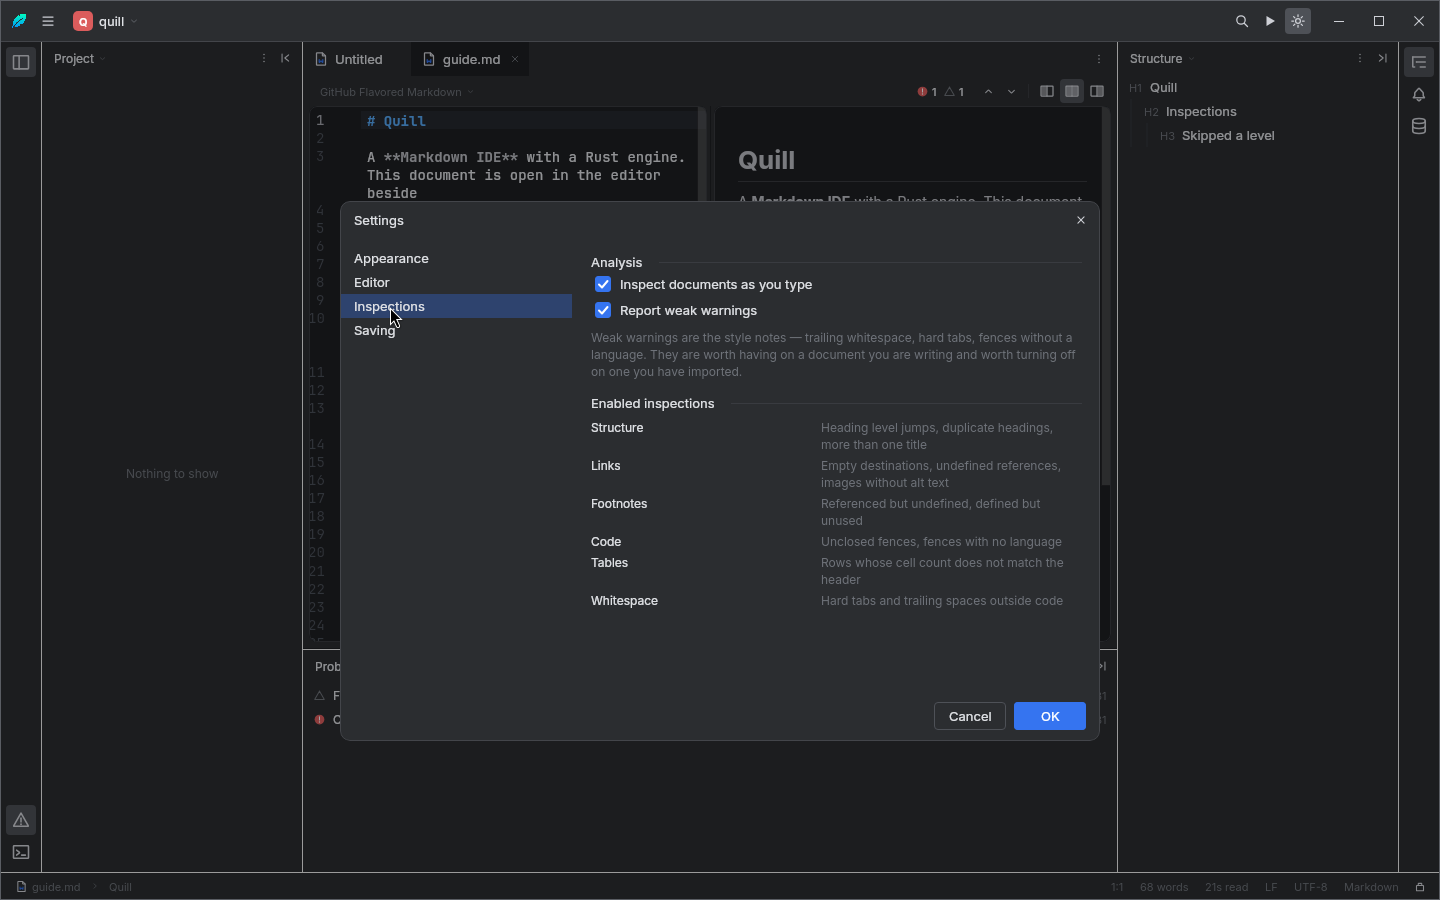
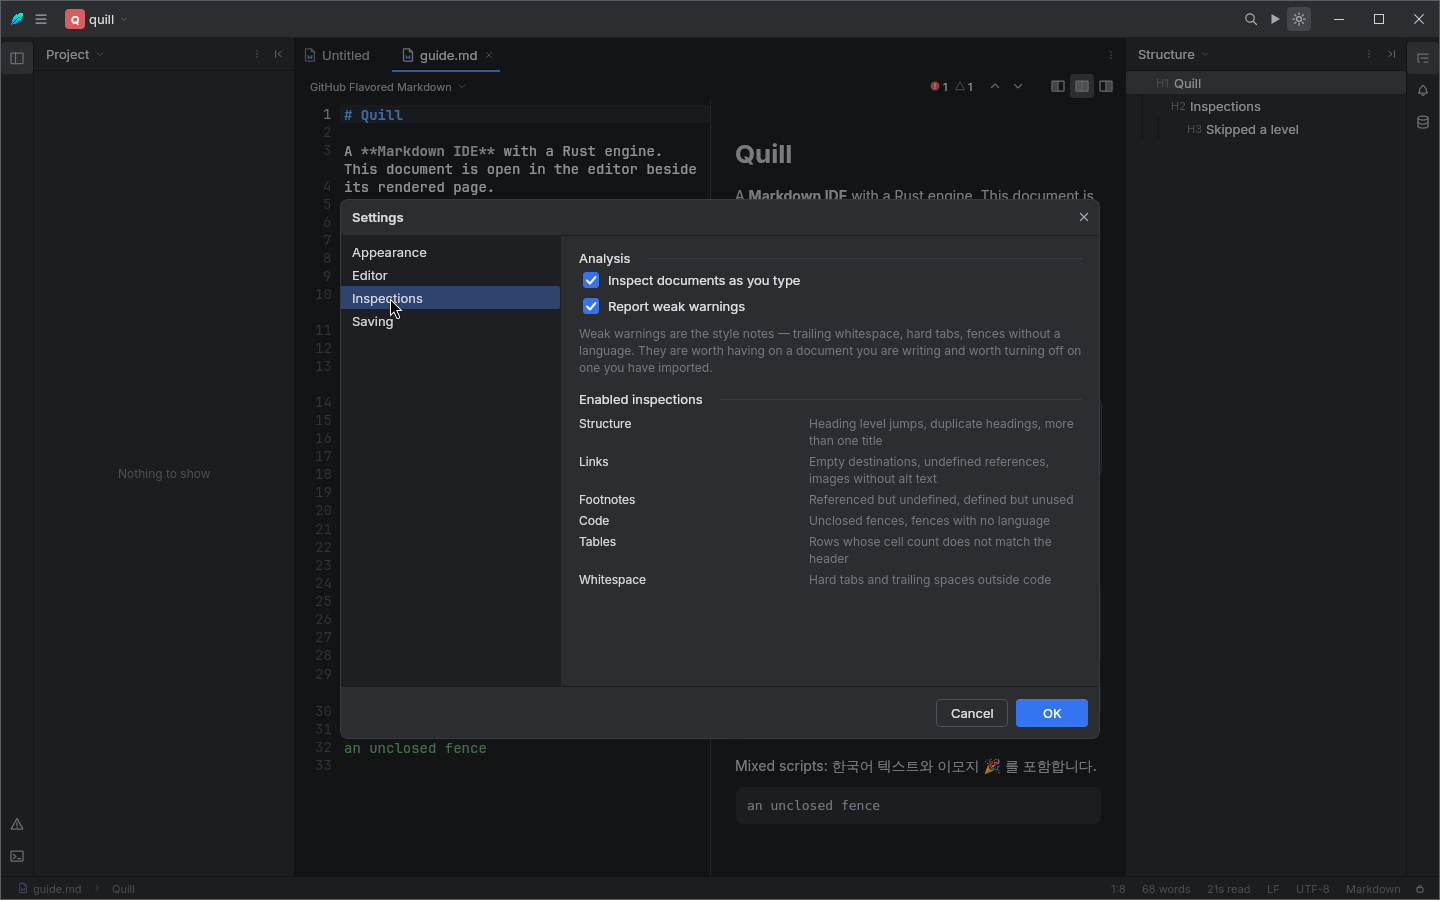
Refresh the screenshots from the running window
The four images in the README were captured before the shell rework and showed
the old palette, the old separators and the old density. These are the packaged
release binary on a virtual display: split view, the Problems tool window, the
Settings dialog on its Inspections page, and Run/Debug Configurations with a
configuration selected.

The docs said the screenshots came from the offscreen render tests, which was
true when they were written and is not now. Both notes say what they actually
are, and BUILD.md gains what the capture setup needs — no window manager means
the window has to be positioned and focused through the X server by hand, and
pointer events work regardless, which is enough to click through the whole UI.

Removed seven images no page referenced.

diff --git a/docs/BUILD.md b/docs/BUILD.md
@@ -131,6 +131,12 @@ inspection.
 ## Known environment limitations
 
 The container this project was developed in has no GL context, so Skiko falls back to software
-rendering — harmless, and the reason `Cannot create Linux GL context` appears in launch logs. It
-also has no screen-capture tooling; the screenshots in `docs/images/` come from the offscreen render
-tests rather than from a window manager.
+rendering — harmless, and the reason `Cannot create Linux GL context` appears in launch logs.
+
+There is no window manager either, which is worth knowing if you drive the app on a virtual display:
+nothing routes keyboard input to the window and nothing honours a position request, so both have to
+be done by hand through the X server. Pointer events are unaffected, which is enough to click
+through the whole UI. The screenshots in `docs/images/` are framebuffer captures of the packaged
+release binary running that way — `Xvfb -fbdir` writes the screen to an XWD file, which decodes to a
+PNG. `quill-app`'s render tests produce equivalent images offscreen through `ImageComposeScene`, and
+those are what CI can check; the captures are what shows the real window.

diff --git a/CONTRIBUTING.md b/CONTRIBUTING.md
@@ -108,8 +108,9 @@ away, add a `-keep` rule to `quill-app/proguard-rules.pro` with a comment saying
 - **Branches** off `main`. Rebase rather than merge to bring in changes.
 - **British spelling** in comments and documentation, since that is what the codebase uses.
 - **`.editorconfig`** carries the formatting rules; most editors apply it automatically.
-- **Screenshots** in `docs/images/` come from `quill-app/build/test-renders/`. Regenerate them
-  rather than cropping a real window, so they stay reproducible.
+- **Screenshots** in `docs/images/` are captures of the packaged release binary. `quill-app`'s
+  render tests write equivalent images to `quill-app/build/test-renders/` on every run, so a UI
+  change that breaks rendering fails the build rather than waiting to be noticed in a screenshot.
 
 ## Reporting bugs
 
